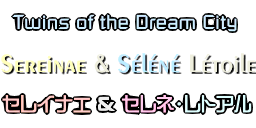
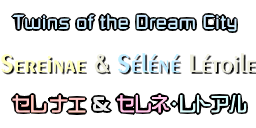
Serei jp writing: セレイナエ to セレナエ

Changed region(s): [[0.0, 0.7188, 1.0, 0.9062]]

diff --git a/Letoile/files.js b/Letoile/files.js
@@ -1,6 +1,6 @@
 {
 	"RussellSquare.ttf": null,
-	"Sereinae Létoile Omake.txt": 3001969787,
+	"Sereinae Létoile Omake.txt": 2118943752,
 	"Some Sereinae Sanae and Jolty dialogue.txt": 3815607817,
 	"global.js": 2975777465,
 	"patch.js": 4000848845,
@@ -14,7 +14,7 @@
 	"th13/face/balloon.png": 613480744,
 	"th13/face/dummy.png": 2926711928,
 	"th13/face/enemy1/enamebk.png": 2897028461,
-	"th13/face/enemy7m/ename01.png": 2612117730,
+	"th13/face/enemy7m/ename01.png": 1383320480,
 	"th13/face/enemy7m/face07bs.png": 3042552783,
 	"th13/face/enemy7m/face07mct.png": 969397542,
 	"th13/face/enemy7m/face07n2.png": 862619756,

diff --git a/SereinaeAlt/files.js b/SereinaeAlt/files.js
@@ -1,6 +1,6 @@
 {
 	"RussellSquare.ttf": 1572031365,
-	"Sereinae Replica Omake.txt": 1080377907,
+	"Sereinae Replica Omake.txt": 1031040323,
 	"global.js": 2975777465,
 	"patch.js": 2891445643,
 	"stringdefs.js": 3649229448,
@@ -225,7 +225,7 @@
 	"th18/face/enemy5m/face05mpr.png": 2633103082,
 	"th18/face/enemy5m/face05msp.png": 3082697420,
 	"th18/face/enemy5m/face05msw.png": 1515349988,
-	"th18/face/enemy6/ename01.png": 28677571,
+	"th18/face/enemy6/ename01.png": 70662075,
 	"th18/face/enemy6/enamebk.png": 3589787218,
 	"th18/face/enemy6/face06an.png": 2853781693,
 	"th18/face/enemy6/face06bs.png": 383201918,

diff --git a/Bravimemes/files.js b/Bravimemes/files.js
@@ -319,7 +319,7 @@
 	"th18/face/enemy7/face07spl.png": 855966619,
 	"th18/face/enemy7/face07sw.png": 4259199676,
 	"th18/face/enemy7/face07swl.png": 836502138,
-	"th18/face/enemy7m/ename01.png": 4170937528,
+	"th18/face/enemy7m/ename01.png": 2840093042,
 	"th18/face/enemy7m/enamebk.png": 2635452246,
 	"th18/face/enemy7m/face07man.png": 2747672631,
 	"th18/face/enemy7m/face07mban.png": 1523317242,
